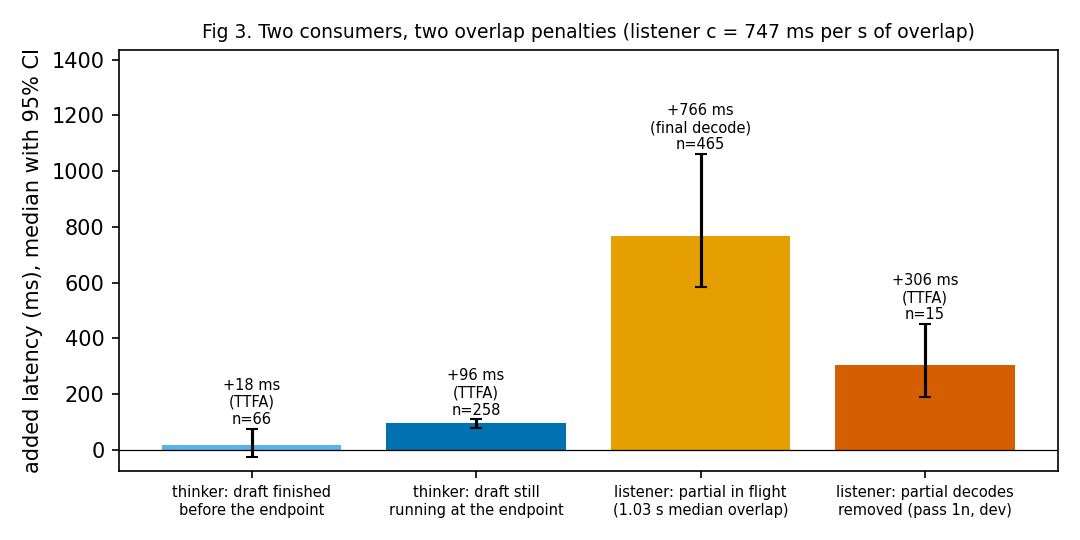
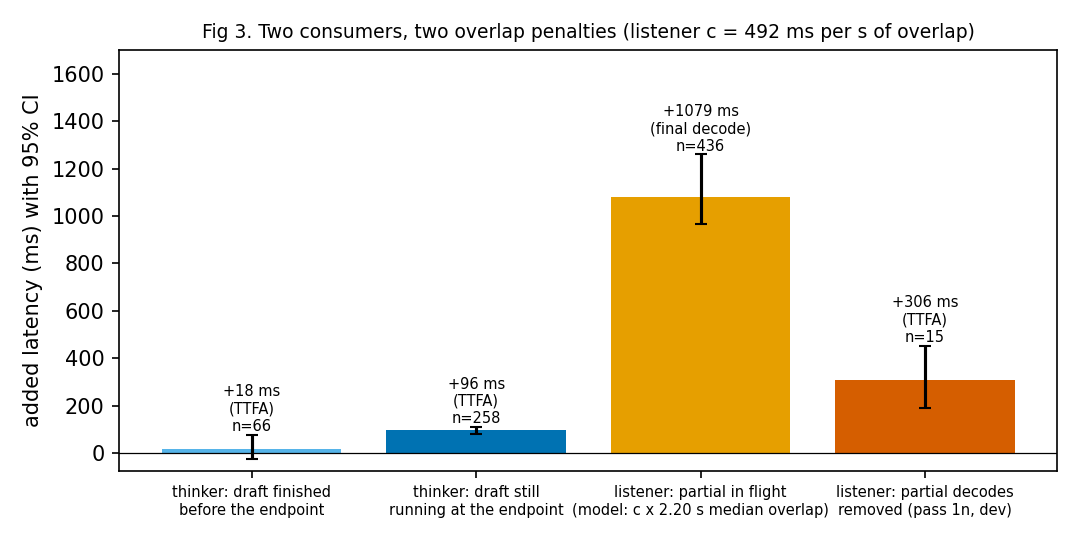
Fig 3: listener c from the registered P2a fit

diff --git a/src/scripts/paper_figures.py b/src/scripts/paper_figures.py
@@ -258,11 +258,13 @@ def fig3(out: Path) -> None:
     can = op.per_item_ttfa(RAW, op.CANONICAL_DEV, refs)
     nop = op.per_item_ttfa(RAW, op.NOPARTIAL_DEV, refs)
     interv = [can[i] - nop[i] for i in sorted(set(can) & set(nop))]
-    fd = _script("final_decode_model")
-    rows, _by_run = fd.load("results/raw/reactive/reactive-2026092[12]-*/turns.jsonl")
-    trip = [(r["audio_s"], r["overlap_s"], r["final_ms"]) for r in rows]
-    _a, _b, c, _se = fd.fit3(trip)
-    ci = fd.bootstrap(trip, [r["run"] for r in rows], 2000, 0)["c"]
+    # Listener c is the registered P2a fit (p2_score.py headline coding), so the
+    # figure and the ledger carry one number.
+    p2 = _script("p2_score")
+    pop = p2.population(p2.collect(p2.runs()))
+    beta, c_lo, c_hi, _kept = p2.fit_c(pop, key=p2.merged)
+    c = float(beta[2])
+    rows = [r for _, _, r in pop]
     med_ov = statistics.median(r["overlap_s"] for r in rows if r["overlap_s"] > 0)
     bars = [
         (
@@ -282,10 +284,10 @@ def fig3(out: Path) -> None:
             OKABE[4],
         ),
         (
-            f"listener: partial in flight\n({med_ov:.2f} s median overlap)",
+            f"listener: partial in flight\n(model: c x {med_ov:.2f} s median overlap)",
             c * med_ov,
-            (ci[0] * med_ov, ci[1] * med_ov),
-            len(rows),
+            (c_lo * med_ov, c_hi * med_ov),
+            sum(1 for r in rows if r["overlap_s"] > 0),
             "final decode",
             OKABE[0],
         ),
@@ -311,7 +313,7 @@ def fig3(out: Path) -> None:
     for i, b_ in enumerate(bars):
         ax.text(i, b_[2][1] + 15, f"{b_[1]:+.0f} ms\n({b_[4]})\nn={b_[3]}", ha="center", fontsize=7)
     ax.set_xticks(x, [b_[0] for b_ in bars], fontsize=7)
-    ax.set_ylabel("added latency (ms), median with 95% CI")
+    ax.set_ylabel("added latency (ms) with 95% CI")
     ax.set_ylim(min(0, min(b_[2][0] for b_ in bars)) - 50, max(b_[2][1] for b_ in bars) * 1.35)
     ax.set_title(
         f"Fig 3. Two consumers, two overlap penalties (listener c = {c:.0f} ms per s of overlap)",
